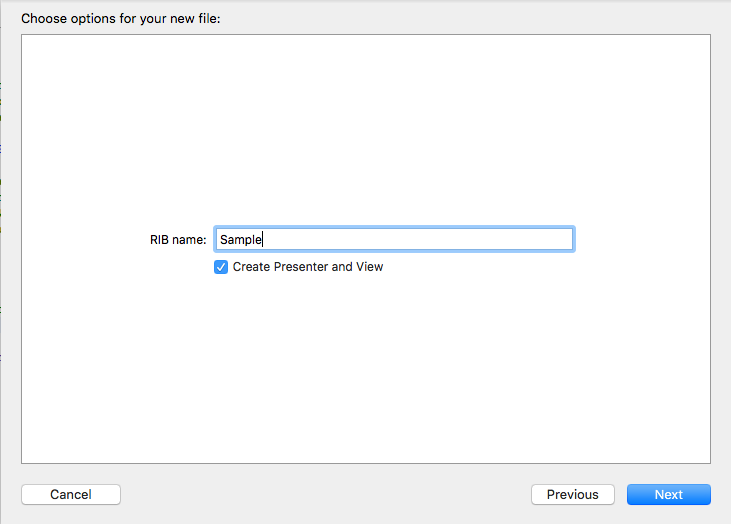
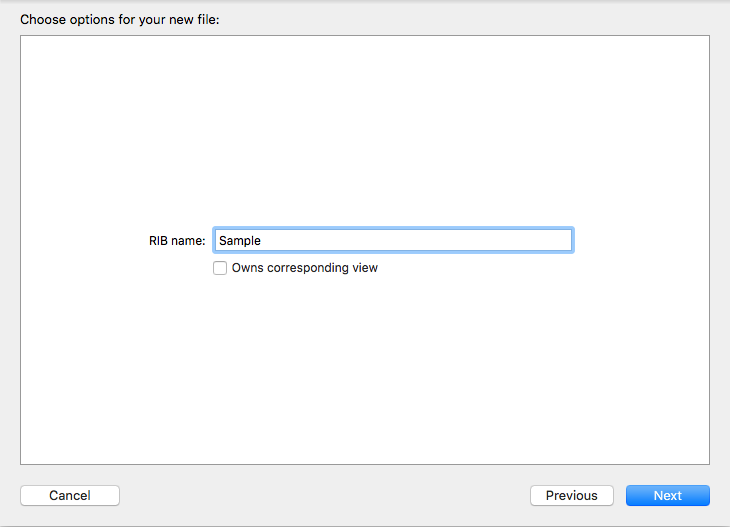
Addressing review comments
- Re-adding cleanupViews to the routers without
- Adding copyright to where it was missing
- Updating README on the differences between RIBs generated with and
without views. Updated screenshot.
- Removing SnapKit from the generated ViewController
- Removed mock tags

diff --git a/ios/tooling/RIB.xctemplate/Default/___FILEBASENAME___Interactor.swift b/ios/tooling/RIB.xctemplate/Default/___FILEBASENAME___Interactor.swift
@@ -1,16 +1,27 @@
 //
-//  Copyright © 2017 Uber Technologies, Inc. All rights reserved.
+//  Copyright (c) 2017. Uber Technologies
+//
+//  Licensed under the Apache License, Version 2.0 (the "License");
+//  you may not use this file except in compliance with the License.
+//  You may obtain a copy of the License at
+//
+//  http://www.apache.org/licenses/LICENSE-2.0
+//
+//  Unless required by applicable law or agreed to in writing, software
+//  distributed under the License is distributed on an "AS IS" BASIS,
+//  WITHOUT WARRANTIES OR CONDITIONS OF ANY KIND, either express or implied.
+//  See the License for the specific language governing permissions and
+//  limitations under the License.
 //
 
 import RIBs
 import RxSwift
 
-/// @CreateMock
 protocol ___VARIABLE_productName___Routing: Routing {
+    func cleanupViews()
     // TODO: Declare methods the interactor can invoke to manage sub-tree via the router.
 }
 
-/// @CreateMock
 protocol ___VARIABLE_productName___Listener: class {
     // TODO: Declare methods the interactor can invoke to communicate with other RIBs.
 }
@@ -32,6 +43,7 @@ final class ___VARIABLE_productName___Interactor: Interactor, ___VARIABLE_produc
     override func willResignActive() {
         super.willResignActive()
 
+        router?.cleanupViews()
         // TODO: Pause any business logic.
     }
 }

diff --git a/ios/tooling/RIB.xctemplate/Default/___FILEBASENAME___Router.swift b/ios/tooling/RIB.xctemplate/Default/___FILEBASENAME___Router.swift
@@ -16,13 +16,11 @@
 
 import RIBs
 
-/// @CreateMock
 protocol ___VARIABLE_productName___Interactable: Interactable {
     weak var router: ___VARIABLE_productName___Routing? { get set }
     weak var listener: ___VARIABLE_productName___Listener? { get set }
 }
 
-/// @CreateMock
 protocol ___VARIABLE_productName___ViewControllable: ViewControllable {
     // TODO: Declare methods the router invokes to manipulate the view hierarchy. Since
     // this RIB does not own its own view, this protocol is conformed to by one of this
@@ -35,5 +33,10 @@ final class ___VARIABLE_productName___Router: Router<___VARIABLE_productName___I
     override init(interactor: SampleInteractable) {
         super.init(interactor: interactor)
         interactor.router = self
+    }
+
+    func cleanupViews() {
+        // TODO: Since this router does not own its view, it needs to cleanup the views
+        // it may have added to the view hierarchy, when its interactor is deactivated.
     }
 }

diff --git a/ios/tooling/RIB.xctemplate/ownsView/___FILEBASENAME___ViewController.swift b/ios/tooling/RIB.xctemplate/ownsView/___FILEBASENAME___ViewController.swift
@@ -16,10 +16,8 @@
 
 import RIBs
 import RxSwift
-import SnapKit
 import UIKit
 
-/// @CreateMock
 protocol ___VARIABLE_productName___PresentableListener: class {
     // TODO: Declare properties and methods that the view controller can invoke to perform
     // business logic, such as signIn(). This protocol is implemented by the corresponding
@@ -32,8 +30,4 @@ final class ___VARIABLE_productName___ViewController: UIViewController, ___VARIA
     public final var uiviewController: UIViewController { return self }
 
     weak var listener: ___VARIABLE_productName___PresentableListener?
-}
-
-private class ___VARIABLE_productName___View: UIView {
-
 }

diff --git a/ios/tooling/RIB.xctemplate/ownsView/___FILEBASENAME___Interactor.swift b/ios/tooling/RIB.xctemplate/ownsView/___FILEBASENAME___Interactor.swift
@@ -17,18 +17,15 @@
 import RIBs
 import RxSwift
 
-/// @CreateMock
 protocol ___VARIABLE_productName___Routing: ViewableRouting {
     // TODO: Declare methods the interactor can invoke to manage sub-tree via the router.
 }
 
-/// @CreateMock
 protocol ___VARIABLE_productName___Presentable: Presentable {
     weak var listener: ___VARIABLE_productName___PresentableListener? { get set }
     // TODO: Declare methods the interactor can invoke the presenter to present data.
 }
 
-/// @CreateMock
 protocol ___VARIABLE_productName___Listener: class {
     // TODO: Declare methods the interactor can invoke to communicate with other RIBs.
 }

diff --git a/ios/tooling/RIB.xctemplate/ownsView/___FILEBASENAME___Router.swift b/ios/tooling/RIB.xctemplate/ownsView/___FILEBASENAME___Router.swift
@@ -16,13 +16,11 @@
 
 import RIBs
 
-/// @CreateMock
 protocol ___VARIABLE_productName___Interactable: Interactable {
     weak var router: ___VARIABLE_productName___Routing? { get set }
     weak var listener: ___VARIABLE_productName___Listener? { get set }
 }
 
-/// @CreateMock
 protocol ___VARIABLE_productName___ViewControllable: ViewControllable {
     // TODO: Declare methods the router invokes to manipulate the view hierarchy.
 }

diff --git a/ios/tooling/RIB.xctemplate/Default/___FILEBASENAME___Builder.swift b/ios/tooling/RIB.xctemplate/Default/___FILEBASENAME___Builder.swift
@@ -35,7 +35,6 @@ final class ___VARIABLE_productName___Component: Component<___VARIABLE_productNa
 
 // MARK: - Builder
 
-/// @CreateMock
 protocol ___VARIABLE_productName___Buildable: Buildable {
     func build(withListener listener: ___VARIABLE_productName___Listener) -> ___VARIABLE_productName___Routing
 }

diff --git a/ios/tooling/RIB.xctemplate/ownsView/___FILEBASENAME___Builder.swift b/ios/tooling/RIB.xctemplate/ownsView/___FILEBASENAME___Builder.swift
@@ -28,7 +28,6 @@ final class ___VARIABLE_productName___Component: Component<___VARIABLE_productNa
 
 // MARK: - Builder
 
-/// @CreateMock
 protocol ___VARIABLE_productName___Buildable: Buildable {
     func build(withListener listener: ___VARIABLE_productName___Listener) -> ___VARIABLE_productName___Routing
 }

diff --git a/ios/tooling/README.md b/ios/tooling/README.md
@@ -6,9 +6,12 @@ After installing templates, RIBs can be added with the `New File...` command in 
 - [RIBName]Builder, [RIBName]Interactor, [RIBName]Router classes in all classes
 -  and [RIBName]ViewController class
 
-RIBs can be generated with or without Presenter and View classes.
+RIBs can be generated with or without owning corresponding views.
 
 ![The RIBs Xcode Template](ios-rib-tooling-1.png)
+
+- **RIBs with view** generation does not generate a separate presenter class, only a `Presentable` interface, which the ViewController implements. This is to keep things simple and practical. In the majority of our use cases we have not found the need to create a standalone Presenter class to communicate with the View.
+- **Pure logic RIBs** often manipulate the view hierarchy in some way. In the router generated in these cases, a `cleanupViews` method is added where cleanup code should be implemented, once the RIB goes away. This method is not generated for RIBs with views, as in those cases, the parent will most likely detach the child and no manual cleanup would be needed.
 
 
 ## Installation Instructions
